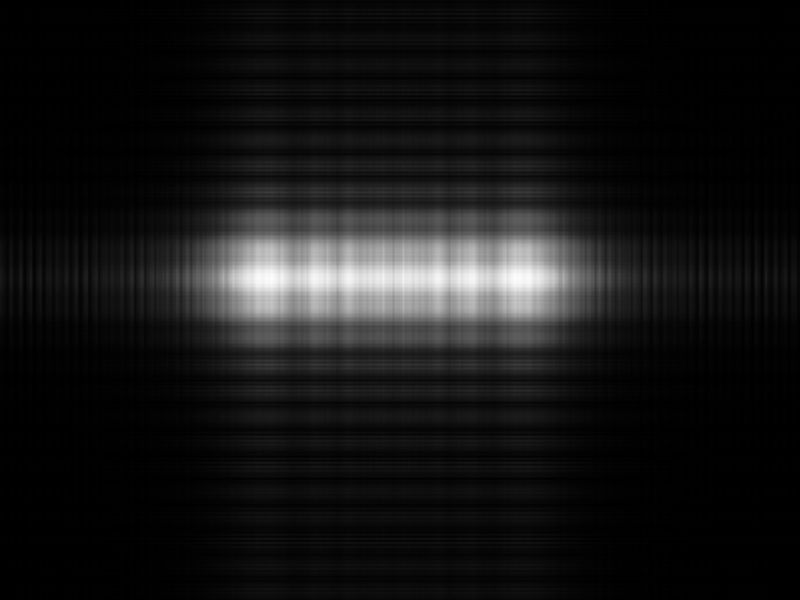
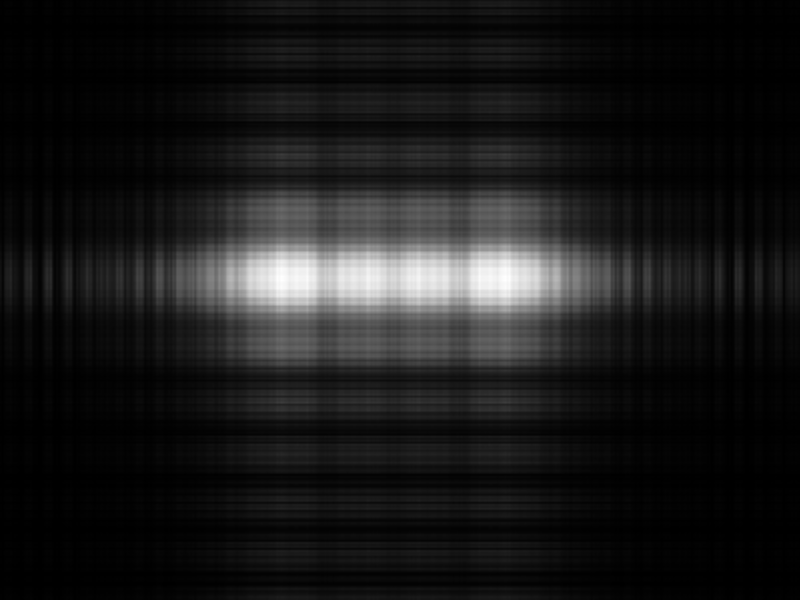
more cgh

diff --git a/holopy/fourierCGH.py b/holopy/fourierCGH.py
@@ -51,9 +51,11 @@ def propagation(diff,wavelength=632e-9,z=1,px=0.01,py=0.01,show=None):
 
     if show:
         propShift=np.fft.fftshift(prop)
-        propInt=propShift.real*propShift.real+propShift.imag*propShift.imag
+        #propInt=propShift.real*propShift.real+propShift.imag*propShift.imag
+        propInt = abs(propShift)
 
-        plt.imshow(np.log(propInt.real+1e-3),cmap=plt.cm.Greys_r)
+        #plt.imshow(np.log(propInt.real+1e-3),cmap=plt.cm.Greys_r)
+        plt.imshow((propInt),cmap=plt.cm.Greys_r)
         plt.show()
 
     return prop
@@ -61,7 +63,7 @@ def propagation(diff,wavelength=632e-9,z=1,px=0.01,py=0.01,show=None):
 
 def hologram(prop,show=None):
     holo=np.fft.ifft2(prop)
-    holoInt=holo.real*holo.real+holo.imag*holo.imag
+    #holoInt=holo.real*holo.real+holo.imag*holo.imag
     holoInt = abs(holo)
 
     if show:
@@ -109,6 +111,7 @@ def reconstruction(holoInt,wavelength=632e-9,z=1,px=0.01,py=0.01,show=1):
 if __name__=='__main__':
     img=plt.imread('bar.png')
     img=plt.imread('whitebar.png')
+    #img=plt.imread('whitecircle.png')
 
 
     try:
@@ -119,7 +122,7 @@ if __name__=='__main__':
     #img=normalizeImage(img)
 
     diff = diffraction(img)
-    prop = propagation(diff)
+    prop = propagation(diff, z=2, show=1)
     holo, holoInt = hologram(prop,show=1)
 
     #recInt=reconstruction(holoInt)
